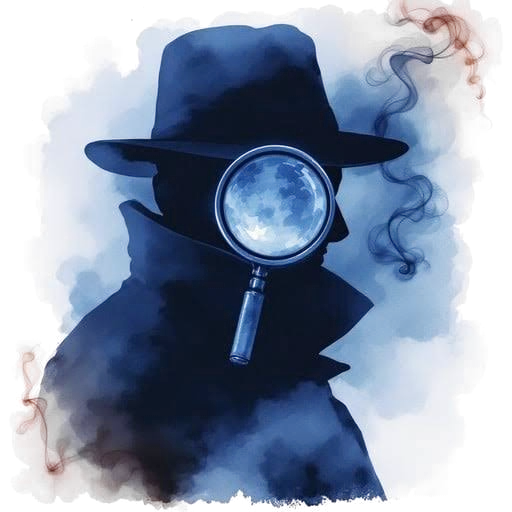
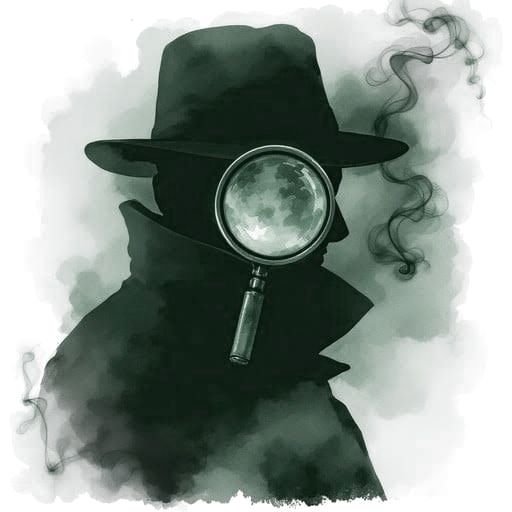
Recolor the watercolor detective into the site greens
The painting's tones are mapped onto the palette (deep forest shadows,
mid-green coat, pale lime highlights), keeping its texture and smoke;
the backlight is tinted to match.

diff --git a/components/control-quest/content.ts b/components/control-quest/content.ts
@@ -62,7 +62,7 @@ export const about = {
   ] as { icon: IconName; from: string; to: string }[],
   quote:
     "Strong controls come to life when people understand them, challenge them and own them.",
-  silhouetteAlt: "Watercolor of a detective in a fedora and raised coat collar, holding a magnifying glass over his eye, with smoke curling beside him",
+  silhouetteAlt: "Green watercolor of a detective in a fedora and raised coat collar, holding a magnifying glass over his eye, with smoke curling beside him",
 };
 
 export type Stat = { value: number; suffix?: string; label: string; icon: IconName; key?: boolean };

diff --git a/components/control-quest/Detective.tsx b/components/control-quest/Detective.tsx
@@ -2,7 +2,8 @@ import Image from "next/image";
 import detective from "@/public/control-quest/detective.webp";
 
 /**
- * The watercolor detective (supplied by the site owner), with the white paper
+ * The watercolor detective (supplied by the site owner), recoloured into the
+ * site greens, with the white paper
  * removed so it floats on the page. A pale light behind him makes the dark
  * figure read as a silhouette and fades into the section green at the edges.
  */

diff --git a/components/control-quest/control-quest.css b/components/control-quest/control-quest.css
@@ -501,7 +501,7 @@
 .cq-noir-glow {
   position: absolute;
   inset: 0;
-  background: radial-gradient(closest-side at 55% 44%, #eef6ee 0, #b7d3c2 34%, #3b6d50 64%, rgb(10 29 19 / 0) 100%); /* taste-skill-ignore: backlight */
+  background: radial-gradient(closest-side at 55% 44%, #e6f7dc 0, #a7d4ad 34%, #346a49 64%, rgb(10 29 19 / 0) 100%); /* taste-skill-ignore: backlight */
   animation: cq-breathe 8s var(--cq-ease-in-out) infinite;
 }
 
